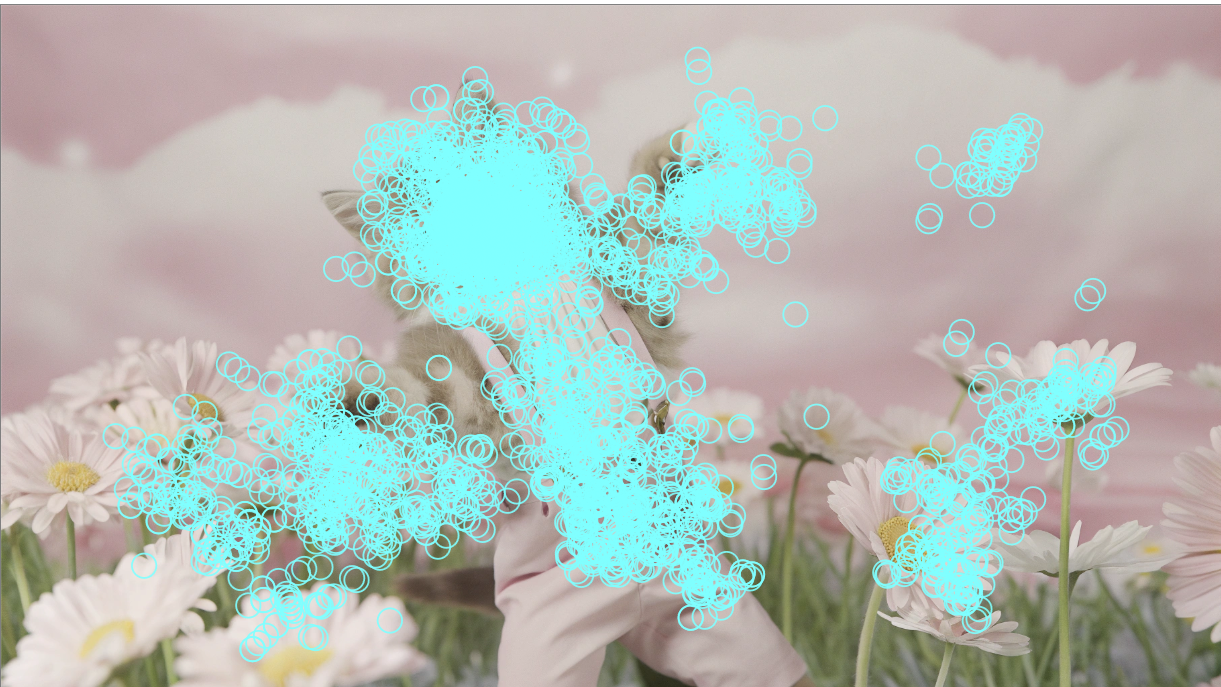
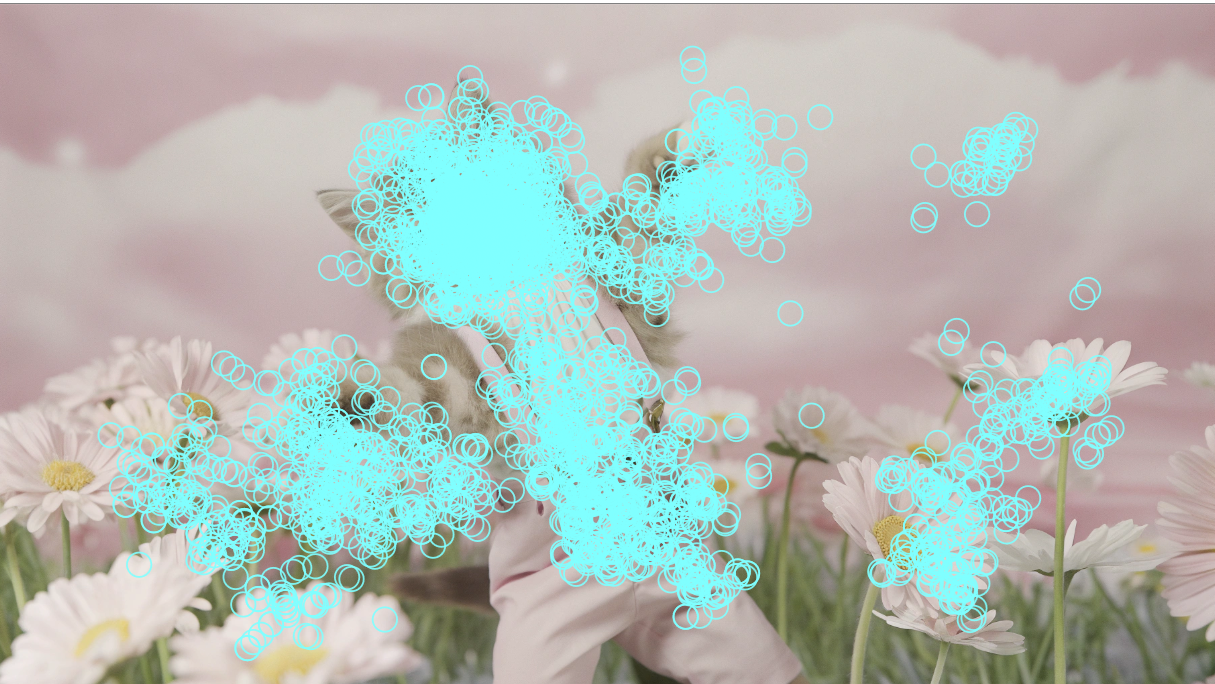
Rename patents section and update bee swarm visual

diff --git a/siteDimaCodex/about/patents.html b/siteDimaCodex/about/patents.html
@@ -3,7 +3,7 @@
 <head>
   <meta charset="UTF-8">
   <meta name="viewport" content="width=device-width, initial-scale=1.0">
-  <title>Патенты и свидетельства | Нейроиконика</title>
+  <title>Наши патенты и свидетельства | Нейроиконика</title>
   <meta name="description" content="Патенты, свидетельства о регистрации программ для ЭВМ и товарные знаки Нейроиконики: айтрекинг, Нейробюро, EyeCommunicator, Стерх и экранированные камеры.">
   <link rel="icon" type="image/png" href="../assets/logos/favicon_v1.png">
   <link rel="preconnect" href="https://fonts.googleapis.com">
@@ -82,7 +82,7 @@
           <div class="nav-dropdown">
             <a href="who-we-are.html"><span class="dropdown-text"><span class="dropdown-label">Кто мы</span><span class="dropdown-desc">История и команда</span></span></a>
             <a href="publications.html"><span class="dropdown-text"><span class="dropdown-label">Наши публикации</span><span class="dropdown-desc">Научные статьи</span></span></a>
-            <a href="patents.html"><span class="dropdown-text"><span class="dropdown-label">Патенты</span><span class="dropdown-desc">Свидетельства и товарные знаки</span></span></a>
+            <a href="patents.html"><span class="dropdown-text"><span class="dropdown-label">Наши патенты</span><span class="dropdown-desc">Свидетельства и товарные знаки</span></span></a>
             <a href="news.html"><span class="dropdown-text"><span class="dropdown-label">Новости</span><span class="dropdown-desc">Последние события</span></span></a>
             <a href="contacts.html"><span class="dropdown-text"><span class="dropdown-label">Контакты</span><span class="dropdown-desc">Свяжитесь с нами</span></span></a>
           </div>
@@ -98,7 +98,7 @@
     <div class="container hero-content">
       <div class="hero-text">
         <div class="hero-badge"><span>Правовая охрана</span></div>
-        <h1 class="hero-title">Патенты и <span class="text-gradient">свидетельства</span></h1>
+        <h1 class="hero-title">Наши патенты и <span class="text-gradient">свидетельства</span></h1>
         <p class="hero-subtitle">Технические решения, программные продукты и товарные знаки, зарегистрированные для разработок Нейроиконики.</p>
       </div>
     </div>
@@ -127,7 +127,6 @@
       <div class="section-header reveal">
         <div class="section-label">Реестр</div>
         <h2>Что зарегистрировано</h2>
-        <p>PDF-документы открываются в новой вкладке.</p>
       </div>
 
       <div class="patent-list reveal-stagger">

diff --git a/siteDimaCodex/assistiv/cases.html b/siteDimaCodex/assistiv/cases.html
@@ -133,7 +133,7 @@
           <div class="nav-dropdown">
             <a href="../about/who-we-are.html"><span class="dropdown-text"><span class="dropdown-label">Кто мы</span><span class="dropdown-desc">История и команда</span></span></a>
             <a href="../about/publications.html"><span class="dropdown-text"><span class="dropdown-label">Наши публикации</span><span class="dropdown-desc">Научные статьи</span></span></a>
-            <a href="../about/patents.html"><span class="dropdown-text"><span class="dropdown-label">Патенты</span><span class="dropdown-desc">Свидетельства и товарные знаки</span></span></a>
+            <a href="../about/patents.html"><span class="dropdown-text"><span class="dropdown-label">Наши патенты</span><span class="dropdown-desc">Свидетельства и товарные знаки</span></span></a>
             <a href="../about/news.html"><span class="dropdown-text"><span class="dropdown-label">Новости</span><span class="dropdown-desc">Последние события</span></span></a>
             <a href="../about/contacts.html"><span class="dropdown-text"><span class="dropdown-label">Контакты</span><span class="dropdown-desc">Свяжитесь с нами</span></span></a>
           </div>

diff --git a/siteDimaCodex/assistiv/index.html b/siteDimaCodex/assistiv/index.html
@@ -273,7 +273,7 @@
           <div class="nav-dropdown">
             <a href="../about/who-we-are.html"><span class="dropdown-text"><span class="dropdown-label">Кто мы</span><span class="dropdown-desc">История и команда</span></span></a>
             <a href="../about/publications.html"><span class="dropdown-text"><span class="dropdown-label">Наши публикации</span><span class="dropdown-desc">Научные статьи</span></span></a>
-            <a href="../about/patents.html"><span class="dropdown-text"><span class="dropdown-label">Патенты</span><span class="dropdown-desc">Свидетельства и товарные знаки</span></span></a>
+            <a href="../about/patents.html"><span class="dropdown-text"><span class="dropdown-label">Наши патенты</span><span class="dropdown-desc">Свидетельства и товарные знаки</span></span></a>
             <a href="../about/news.html"><span class="dropdown-text"><span class="dropdown-label">Новости</span><span class="dropdown-desc">Последние события</span></span></a>
             <a href="../about/contacts.html"><span class="dropdown-text"><span class="dropdown-label">Контакты</span><span class="dropdown-desc">Свяжитесь с нами</span></span></a>
           </div>

diff --git a/siteDimaCodex/assistiv/manual-eyecommunicator.html b/siteDimaCodex/assistiv/manual-eyecommunicator.html
@@ -139,7 +139,7 @@
           <div class="nav-dropdown">
             <a href="../about/who-we-are.html"><span class="dropdown-text"><span class="dropdown-label">Кто мы</span><span class="dropdown-desc">История и команда</span></span></a>
             <a href="../about/publications.html"><span class="dropdown-text"><span class="dropdown-label">Наши публикации</span><span class="dropdown-desc">Научные статьи</span></span></a>
-            <a href="../about/patents.html"><span class="dropdown-text"><span class="dropdown-label">Патенты</span><span class="dropdown-desc">Свидетельства и товарные знаки</span></span></a>
+            <a href="../about/patents.html"><span class="dropdown-text"><span class="dropdown-label">Наши патенты</span><span class="dropdown-desc">Свидетельства и товарные знаки</span></span></a>
             <a href="../about/news.html"><span class="dropdown-text"><span class="dropdown-label">Новости</span><span class="dropdown-desc">Последние события</span></span></a>
             <a href="../about/contacts.html"><span class="dropdown-text"><span class="dropdown-label">Контакты</span><span class="dropdown-desc">Свяжитесь с нами</span></span></a>
           </div>

diff --git a/siteDimaCodex/assistiv/manual-games.html b/siteDimaCodex/assistiv/manual-games.html
@@ -254,7 +254,7 @@
           <div class="nav-dropdown">
             <a href="../about/who-we-are.html"><span class="dropdown-text"><span class="dropdown-label">Кто мы</span><span class="dropdown-desc">История и команда</span></span></a>
             <a href="../about/publications.html"><span class="dropdown-text"><span class="dropdown-label">Наши публикации</span><span class="dropdown-desc">Научные статьи</span></span></a>
-            <a href="../about/patents.html"><span class="dropdown-text"><span class="dropdown-label">Патенты</span><span class="dropdown-desc">Свидетельства и товарные знаки</span></span></a>
+            <a href="../about/patents.html"><span class="dropdown-text"><span class="dropdown-label">Наши патенты</span><span class="dropdown-desc">Свидетельства и товарные знаки</span></span></a>
             <a href="../about/news.html"><span class="dropdown-text"><span class="dropdown-label">Новости</span><span class="dropdown-desc">Последние события</span></span></a>
             <a href="../about/contacts.html"><span class="dropdown-text"><span class="dropdown-label">Контакты</span><span class="dropdown-desc">Свяжитесь с нами</span></span></a>
           </div>

diff --git a/siteDimaCodex/assistiv/manual-pioner.html b/siteDimaCodex/assistiv/manual-pioner.html
@@ -137,7 +137,7 @@
           <div class="nav-dropdown">
             <a href="../about/who-we-are.html"><span class="dropdown-text"><span class="dropdown-label">Кто мы</span><span class="dropdown-desc">История и команда</span></span></a>
             <a href="../about/publications.html"><span class="dropdown-text"><span class="dropdown-label">Наши публикации</span><span class="dropdown-desc">Научные статьи</span></span></a>
-            <a href="../about/patents.html"><span class="dropdown-text"><span class="dropdown-label">Патенты</span><span class="dropdown-desc">Свидетельства и товарные знаки</span></span></a>
+            <a href="../about/patents.html"><span class="dropdown-text"><span class="dropdown-label">Наши патенты</span><span class="dropdown-desc">Свидетельства и товарные знаки</span></span></a>
             <a href="../about/news.html"><span class="dropdown-text"><span class="dropdown-label">Новости</span><span class="dropdown-desc">Последние события</span></span></a>
             <a href="../about/contacts.html"><span class="dropdown-text"><span class="dropdown-label">Контакты</span><span class="dropdown-desc">Свяжитесь с нами</span></span></a>
           </div>

diff --git a/siteDimaCodex/assistiv/manuals.html b/siteDimaCodex/assistiv/manuals.html
@@ -186,7 +186,7 @@
           <div class="nav-dropdown">
             <a href="../about/who-we-are.html"><span class="dropdown-text"><span class="dropdown-label">Кто мы</span><span class="dropdown-desc">История и команда</span></span></a>
             <a href="../about/publications.html"><span class="dropdown-text"><span class="dropdown-label">Наши публикации</span><span class="dropdown-desc">Научные статьи</span></span></a>
-            <a href="../about/patents.html"><span class="dropdown-text"><span class="dropdown-label">Патенты</span><span class="dropdown-desc">Свидетельства и товарные знаки</span></span></a>
+            <a href="../about/patents.html"><span class="dropdown-text"><span class="dropdown-label">Наши патенты</span><span class="dropdown-desc">Свидетельства и товарные знаки</span></span></a>
             <a href="../about/news.html"><span class="dropdown-text"><span class="dropdown-label">Новости</span><span class="dropdown-desc">Последние события</span></span></a>
             <a href="../about/contacts.html"><span class="dropdown-text"><span class="dropdown-label">Контакты</span><span class="dropdown-desc">Свяжитесь с нами</span></span></a>
           </div>

diff --git a/siteDimaCodex/assistiv/pioner.html b/siteDimaCodex/assistiv/pioner.html
@@ -291,7 +291,7 @@
           <div class="nav-dropdown">
             <a href="../about/who-we-are.html"><span class="dropdown-text"><span class="dropdown-label">Кто мы</span><span class="dropdown-desc">История и команда</span></span></a>
             <a href="../about/publications.html"><span class="dropdown-text"><span class="dropdown-label">Наши публикации</span><span class="dropdown-desc">Научные статьи</span></span></a>
-            <a href="../about/patents.html"><span class="dropdown-text"><span class="dropdown-label">Патенты</span><span class="dropdown-desc">Свидетельства и товарные знаки</span></span></a>
+            <a href="../about/patents.html"><span class="dropdown-text"><span class="dropdown-label">Наши патенты</span><span class="dropdown-desc">Свидетельства и товарные знаки</span></span></a>
             <a href="../about/news.html"><span class="dropdown-text"><span class="dropdown-label">Новости</span><span class="dropdown-desc">Последние события</span></span></a>
             <a href="../about/contacts.html"><span class="dropdown-text"><span class="dropdown-label">Контакты</span><span class="dropdown-desc">Свяжитесь с нами</span></span></a>
           </div>

diff --git a/siteDimaCodex/assistiv/training.html b/siteDimaCodex/assistiv/training.html
@@ -173,7 +173,7 @@
           <div class="nav-dropdown">
             <a href="../about/who-we-are.html"><span class="dropdown-text"><span class="dropdown-label">Кто мы</span><span class="dropdown-desc">История и команда</span></span></a>
             <a href="../about/publications.html"><span class="dropdown-text"><span class="dropdown-label">Наши публикации</span><span class="dropdown-desc">Научные статьи</span></span></a>
-            <a href="../about/patents.html"><span class="dropdown-text"><span class="dropdown-label">Патенты</span><span class="dropdown-desc">Свидетельства и товарные знаки</span></span></a>
+            <a href="../about/patents.html"><span class="dropdown-text"><span class="dropdown-label">Наши патенты</span><span class="dropdown-desc">Свидетельства и товарные знаки</span></span></a>
             <a href="../about/news.html"><span class="dropdown-text"><span class="dropdown-label">Новости</span><span class="dropdown-desc">Последние события</span></span></a>
             <a href="../about/contacts.html"><span class="dropdown-text"><span class="dropdown-label">Контакты</span><span class="dropdown-desc">Свяжитесь с нами</span></span></a>
           </div>

diff --git a/siteDimaCodex/neurobureau/cases.html b/siteDimaCodex/neurobureau/cases.html
@@ -179,7 +179,7 @@
           <div class="nav-dropdown">
             <a href="../about/who-we-are.html"><span class="dropdown-text"><span class="dropdown-label">Кто мы</span><span class="dropdown-desc">История и команда</span></span></a>
             <a href="../about/publications.html"><span class="dropdown-text"><span class="dropdown-label">Наши публикации</span><span class="dropdown-desc">Научные статьи</span></span></a>
-            <a href="../about/patents.html"><span class="dropdown-text"><span class="dropdown-label">Патенты</span><span class="dropdown-desc">Свидетельства и товарные знаки</span></span></a>
+            <a href="../about/patents.html"><span class="dropdown-text"><span class="dropdown-label">Наши патенты</span><span class="dropdown-desc">Свидетельства и товарные знаки</span></span></a>
             <a href="../about/news.html"><span class="dropdown-text"><span class="dropdown-label">Новости</span><span class="dropdown-desc">Последние события</span></span></a>
             <a href="../about/contacts.html"><span class="dropdown-text"><span class="dropdown-label">Контакты</span><span class="dropdown-desc">Свяжитесь с нами</span></span></a>
           </div>

diff --git a/siteDimaCodex/neurobureau/cloud.html b/siteDimaCodex/neurobureau/cloud.html
@@ -117,7 +117,7 @@
           <div class="nav-dropdown">
             <a href="../about/who-we-are.html"><span class="dropdown-text"><span class="dropdown-label">Кто мы</span><span class="dropdown-desc">История и команда</span></span></a>
             <a href="../about/publications.html"><span class="dropdown-text"><span class="dropdown-label">Наши публикации</span><span class="dropdown-desc">Научные статьи</span></span></a>
-            <a href="../about/patents.html"><span class="dropdown-text"><span class="dropdown-label">Патенты</span><span class="dropdown-desc">Свидетельства и товарные знаки</span></span></a>
+            <a href="../about/patents.html"><span class="dropdown-text"><span class="dropdown-label">Наши патенты</span><span class="dropdown-desc">Свидетельства и товарные знаки</span></span></a>
             <a href="../about/news.html"><span class="dropdown-text"><span class="dropdown-label">Новости</span><span class="dropdown-desc">Последние события</span></span></a>
             <a href="../about/contacts.html"><span class="dropdown-text"><span class="dropdown-label">Контакты</span><span class="dropdown-desc">Свяжитесь с нами</span></span></a>
           </div>

diff --git a/siteDimaCodex/products/eyetracker.html b/siteDimaCodex/products/eyetracker.html
@@ -139,7 +139,7 @@
           <div class="nav-dropdown">
             <a href="../about/who-we-are.html"><span class="dropdown-text"><span class="dropdown-label">Кто мы</span><span class="dropdown-desc">История и команда</span></span></a>
             <a href="../about/publications.html"><span class="dropdown-text"><span class="dropdown-label">Наши публикации</span><span class="dropdown-desc">Научные статьи</span></span></a>
-            <a href="../about/patents.html"><span class="dropdown-text"><span class="dropdown-label">Патенты</span><span class="dropdown-desc">Свидетельства и товарные знаки</span></span></a>
+            <a href="../about/patents.html"><span class="dropdown-text"><span class="dropdown-label">Наши патенты</span><span class="dropdown-desc">Свидетельства и товарные знаки</span></span></a>
             <a href="../about/news.html"><span class="dropdown-text"><span class="dropdown-label">Новости</span><span class="dropdown-desc">Последние события</span></span></a>
             <a href="../about/contacts.html"><span class="dropdown-text"><span class="dropdown-label">Контакты</span><span class="dropdown-desc">Свяжитесь с нами</span></span></a>
           </div>
